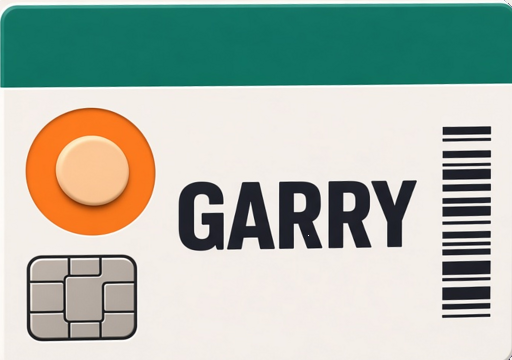
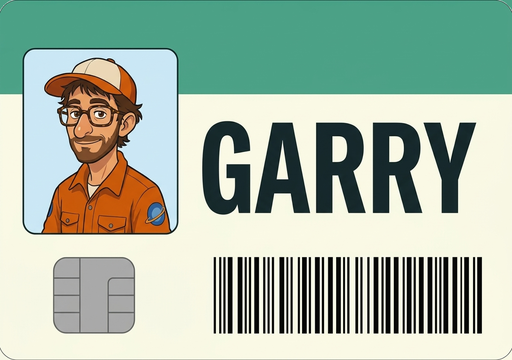
feat(inventaire): icônes 100 % GenAI, badge « GARRY » avec la tête de Gary
- Nouvelles icônes GenAI : sandwich, fusible, ticket_douane, ticket_9848,
  plan_station, plante (M. Ficus en plastique) ; badge régénéré avec la
  photo d'identité de Gary, recto badge-card.png aussi (badge 3D).
- GENAI_ICONS couvre tous les items ; plus aucun bake 3D d'icône.
- L'objet en main suit le curseur avec son icône GenAI (repli glyphe).
- Consigne durable dans Studio.ts et docs/CHAPTERS.md.

diff --git a/src/three/Studio.ts b/src/three/Studio.ts
@@ -7,16 +7,33 @@
 // planches dans public/portraits/ ; un PNG présent là (bake ou remplacement
 // GenAI au même layout) prime sur le bake runtime. Les planches GenAI
 // (GENAI_SHEETS) ne sont jamais rebakées.
-import { ficus, planFolded, ticket } from './rooms/station';
 import Phaser from 'phaser';
 import * as THREE from 'three';
-import { at, cyl, glow } from './kit';
+import { at, glow } from './kit';
 import type { Mood } from '../engine/mood';
-import { badge, bob, fusible, gary, roach, sandwich, seau, serpilliere, setFace, sylvie, type FacePose } from './props';
+import { bob, gary, roach, setFace, sylvie, type FacePose } from './props';
 
 export const iconKey = (id: string) => `icon3d:${id}`;
-/** Icônes d'inventaire GenAI (public/inventory/) : priment sur le bake 3D sous la même clé. */
-export const GENAI_ICONS = new Set(['seau', 'serpilliere', 'badge', 'fragment', 'combi_chitine']);
+/**
+ * Icônes d'inventaire GenAI (public/inventory/<id>.png, RGBA recadré serré ≤ 256²).
+ * CONSIGNE DURABLE : tout item d'inventaire / transportable = icône GenAI, jamais de
+ * plot 2D plat ni de bake 3D. Nouvel item ⇒ générer son icône via
+ * _briefs/ch1/genai-inv/gen.py (+ cutout2.py) avant de merger, et l'ajouter ici.
+ * Le plot couleur + glyphe d'items.yaml n'est qu'un repli si le PNG manque.
+ */
+export const GENAI_ICONS = new Set([
+  'seau',
+  'serpilliere',
+  'badge',
+  'sandwich',
+  'fusible',
+  'fragment',
+  'combi_chitine',
+  'ticket_douane',
+  'ticket_9848',
+  'plante',
+  'plan_station',
+]);
 const genaiIconUrl = (id: string) => `${import.meta.env.BASE_URL}inventory/${id}.png`;
 /** Variante d'icône GenAI : la première règle dont les flags sont tous posés (et aucun `notFlags`) gagne. */
 interface IconVariant {
@@ -130,40 +147,6 @@ interface Pose {
   pitch?: number;
   rim?: string;
 }
-
-const ICONS: Record<string, Pose> = {
-  seau: {
-    build: () => {
-      const g = seau(1, 1.1);
-      g.add(at(cyl(0.42, 0.42, 0.02, '#9cff57', { glow: true, edges: false }), 0, 0.84, 0));
-      return g;
-    },
-    // cadre assez haut pour l'anse entière (sommet ≈ y 1.3)
-    look: [0, 0.62, 0],
-    dist: 3.1,
-    pitch: 0.42,
-    rim: '#7fffd4',
-  },
-  serpilliere: {
-    build: () => {
-      const g = serpilliere(1.6);
-      g.rotation.z = -0.65;
-      return g;
-    },
-    look: [0.3, 0.6, 0],
-    dist: 2.6,
-    rim: '#ffd166',
-  },
-  badge: { build: () => badge(0.8), look: [0, 0.3, 0], dist: 1.9, yaw: -0.35, pitch: 0.12, rim: '#7fffd4' },
-  sandwich: { build: () => sandwich(1), look: [0, 0.12, 0], dist: 2.1, pitch: 0.75, rim: '#ff8ab8' },
-  fusible: { build: () => fusible(1.1), look: [0, 0, 0], dist: 2, yaw: -0.3, pitch: 0.35, rim: '#ff5c7a' },
-  // combi_chitine : icône GenAI uniquement (GENAI_ICONS), jamais de bake 3D
-  // ch.1 « La Station Bureaucratique » : icônes 3D (rooms/station.ts)
-  ticket_douane: { build: () => ticket(1, 'D-0001', '#1f7f73'), look: [0, 0, 0], dist: 1.5, yaw: -0.3, pitch: 0.15, rim: '#7fffd4' },
-  ticket_9848: { build: () => ticket(1, '9848', '#ffd166'), look: [0, 0, 0], dist: 1.5, yaw: 0.3, pitch: 0.15, rim: '#ffd166' },
-  plan_station: { build: () => planFolded(1.2), look: [0, 0, 0], dist: 1.8, yaw: 0.2, pitch: 0.1, rim: '#7fffd4' },
-  plante: { build: () => ficus(1.2), look: [0, 0.6, 0], dist: 2.4, yaw: 0.3, pitch: 0.2, rim: '#9cff57' },
-};
 
 const PORTRAITS: Record<string, Pose & { bg: [string, string] }> = {
   gary: { build: () => gary(1.6), look: [0, 1.0, 0], dist: 2.5, yaw: 0.35, pitch: 0.05, bg: ['#ff8c42', '#3a1240'], rim: '#7fffd4' },
@@ -613,8 +596,7 @@ export function preloadPortraitSheets(load: Phaser.Loader.LoaderPlugin): void {
 export function bakeStudio(textures: Phaser.Textures.TextureManager): void {
   if (textures.exists(portraitKey('gary'))) return;
   const renderer = makeRenderer();
-  // icône GenAI préchargée : pas de bake (repli 3D si le PNG manque)
-  for (const [id, pose] of Object.entries(ICONS)) if (!textures.exists(iconKey(id))) textures.addCanvas(iconKey(id), shootSingle(renderer, pose, 160));
+  // icônes d'inventaire : GenAI uniquement (GENAI_ICONS, préchargées), plus aucun bake 3D
   for (const [id, pose] of Object.entries(PORTRAITS)) {
     textures.addCanvas(portraitKey(id), shootSingle(renderer, pose, 300, pose.bg));
     // planche absente de public/portraits/ (ou illisible) : bake runtime, même layout

diff --git a/src/scenes/RoomScene.ts b/src/scenes/RoomScene.ts
@@ -19,6 +19,7 @@ import { FuseRig } from '../three/rooms/fusible';
 import { LecteurRig } from '../three/rooms/lecteur';
 import { VendingRig } from '../three/rooms/vending';
 import { PRESS_LEAD, type PressRig } from '../three/press';
+import { itemIconKey } from '../three/Studio';
 import { propSound } from '../ui/sfx';
 import { propSfx } from '../engine/propSfx';
 import { makeButton } from '../ui/Button';
@@ -75,6 +76,8 @@ export class RoomScene extends Phaser.Scene implements ActionHost {
   private mapOverlay: StationMapOverlay | null = null;
   private debugText: Phaser.GameObjects.Text | null = null;
   private heldItem!: Phaser.GameObjects.Text;
+  /** Objet en main : son icône GenAI suit le curseur (repli : étiquette `heldItem`). */
+  private heldIcon!: Phaser.GameObjects.Image;
   /** Flèche « retour » quand la caméra reste sur un travel d'examen (?shot=…). */
   private shotExit: Phaser.GameObjects.Container | null = null;
   private busy = false;
@@ -162,7 +165,11 @@ export class RoomScene extends Phaser.Scene implements ActionHost {
       .setLetterSpacing(1.5) // « 1/4096 » : le 1 ne touche plus le /
       .setDepth(790)
       .setVisible(false);
-    this.input.on('pointermove', (p: Phaser.Input.Pointer) => this.heldItem.setPosition(p.x + 14, p.y + 14));
+    this.heldIcon = this.add.image(0, 0, '__DEFAULT').setOrigin(0).setDepth(790).setVisible(false);
+    this.input.on('pointermove', (p: Phaser.Input.Pointer) => {
+      this.heldItem.setPosition(p.x + 14, p.y + 14);
+      this.heldIcon.setPosition(p.x + 12, p.y + 12);
+    });
     // clic dans le vide : reposer l'objet tenu ; en gros plan, sinon, reculer vers la pièce
     this.input.on('pointerdown', (p: Phaser.Input.Pointer, over: Phaser.GameObjects.GameObject[]) => {
       // plan d'arrivée : un clic / tap saute au plan de la pièce (la réplique, elle, se lit normalement)
@@ -224,8 +231,12 @@ export class RoomScene extends Phaser.Scene implements ActionHost {
     this.mapButton.setVisible(hasStationMap(state));
     playMusic(themeForScene(state.scene));
     const held = state.selectedItem ? content.items.get(state.selectedItem) : null;
-    this.heldItem.setVisible(!!held);
-    if (held) this.heldItem.setText(held.icon.glyph).setBackgroundColor(held.icon.color);
+    const heldKey = held ? itemIconKey(held.id, (f) => state.hasFlag(f)) : null;
+    const iconHeld = !!heldKey && this.textures.exists(heldKey);
+    this.heldIcon.setVisible(iconHeld);
+    if (iconHeld) this.heldIcon.setTexture(heldKey).setDisplaySize(56, 56);
+    this.heldItem.setVisible(!!held && !iconHeld);
+    if (held && !iconHeld) this.heldItem.setText(held.icon.glyph).setBackgroundColor(held.icon.color);
     this.renderDropButton(held?.name ?? null);
     this.hover.set(null);
     this.room.highlight(null);
@@ -483,6 +494,7 @@ export class RoomScene extends Phaser.Scene implements ActionHost {
     this.dropButton = null;
     if (!heldName || !isTouch()) return;
     this.heldItem.setVisible(false);
+    this.heldIcon.setVisible(false);
     this.dropButton = makeButton(this, 14, ROOM_H - 14, t('hud.drop'), () => this.session.state.select(null), {
       size: uiPx(this, 20, 15),
       align: 'left',

diff --git a/docs/CHAPTERS.md b/docs/CHAPTERS.md
@@ -62,6 +62,39 @@ objets à payoff différé (voir [`CHAPTER1.md`](CHAPTER1.md), §5).
 - Exemples : `panneau/bouton` (STABILISER : 1er appui `catastrophe`, 2e appui
   `catastrophe_fort`), `interlude-vaisseau/bouton_*`, `levier`, `dest_*`.
 
+### Convention : les yeux de B.O.B. toujours visibles
+
+> **Dans toute salle 3D où B.O.B. apparaît, on voit ses yeux : face ou ¾ caméra, posé au sol,
+> assez loin du bas de l'écran pour que la barre d'inventaire ne les coupe pas.**
+
+- Toujours placer B.O.B. via `bobSpot(s, { scale?, turn?, tilt? })` (`src/three/rooms/bobspot.ts`),
+  jamais avec un `at(bob(…), …, rotY)` codé en dur : il est posé au pied du rect `bob` du YAML
+  (hotspot et mesh restent alignés), **orienté automatiquement vers la caméra** de la salle
+  (+ ¾ de 0,25 rad vers le centre de l'écran) et reçoit sa voix (`BobVoice`).
+- Pour le déplacer, on bouge le **rect `bob` du YAML** (et son `art` de repli), pas le code. On joue sur la
+  **profondeur** : bas du rect vers y ≈ 500–520 (sol plus loin) plutôt que collé à `ROOM_H` (580).
+- Garde-fou dev : `[3D] B.O.B. : yeux à y=… sous la marge HUD` dans la console si ses yeux
+  descendent sous `ROOM_H - BOB_HUD_MARGIN` (556 px) ou s'il est trop détourné de la caméra.
+  Un placement neuf doit passer sans ce warning.
+- Caméra très plongeante (cockpit) : `tilt` négatif le cabre vers l'objectif ; `BobVoice` conserve
+  cette inclinaison de repos.
+
+### Convention : icônes d'inventaire 100 % GenAI
+
+> **Tout item d'inventaire / transportable = icône GenAI (`public/inventory/`), jamais de plot 2D
+> plat ni bake 3D. Nouvel item ⇒ générer son icône via `_briefs/ch1/genai-inv/gen.py` avant de merger.**
+
+- Pipeline : `python3 _briefs/ch1/genai-inv/gen.py gemini-3-pro-image-preview <refs,csv> "<prompt>" raw.png`
+  (refs de style : `public/inventory/seau.png`, `fragment.png`, `combi_chitine.png` ; fond violet uni `#231842`),
+  puis détourage `_briefs/ch1/genai-inv/cutout2.py raw.png public/inventory/<id>.png` (`cutout-glow.py` pour un objet lumineux).
+- Sortie : PNG RGBA recadré serré, 256 × 256 ; silhouette forte, texte gros (lisible en petite case).
+- Déclarer l'id dans `GENAI_ICONS` (`src/three/Studio.ts`) ; un état d'objet porté par des flags
+  (seau plein, serpillière trempée…) = une variante `GENAI_VARIANTS` (`public/inventory/<id>-<variante>.png`).
+- L'icône sert partout : case d'inventaire et objet en main qui suit le curseur. Le plot couleur + glyphe
+  d'`items.yaml` n'est qu'un repli si le PNG manque.
+- Le badge 3D (`badge()` dans `src/three/props.ts`) est texturé par `public/inventory/badge-card.png`
+  (recto redressé 512 × 360, avec la photo de Gary) : à régénérer avec l'icône `badge.png`.
+
 ## 2. Règles de transition (pas de hard cut)
 
 Toute transition suit la même grammaire, en trois temps :
